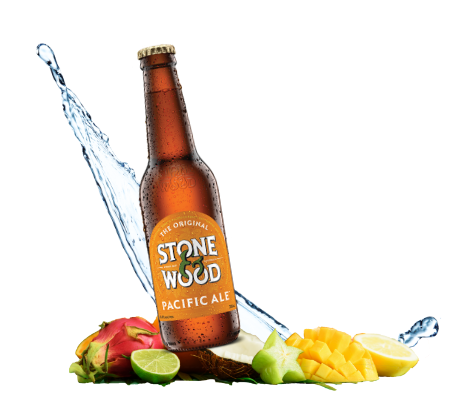
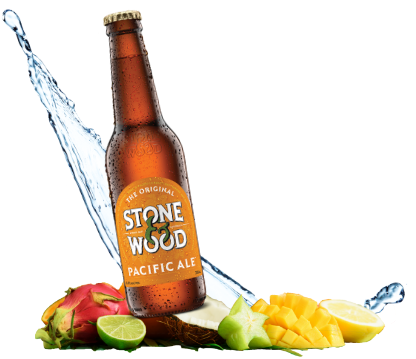
[update] SPの商品概要セクション作成

Changed region(s): [[0.0, 0.0306, 1.0, 1.0]]

diff --git a/index.html b/index.html
@@ -63,8 +63,8 @@
           <div class="limited_pack_title">
             <h2>
               <picture>
-                <source srcset="./assets/img/limited_pack_title.png" media="(min-width: 480px)" width="576" height="138">
-                <img src="./assets/img/sp_limited_pack_title.png" width="385" height="101" alt="父の日限定パック">
+                <source srcset="./assets/img/sp_limited_pack_title.png" media="(max-width: 480px)" width="385" height="101">
+                <img src="./assets/img/limited_pack_title.png" width="576" height="138" alt="父の日限定パック">
               </picture>
             </h2>
           </div>
@@ -129,8 +129,8 @@
           <div class="limited_pack_title">
             <h2>
               <picture>
-                <source srcset="./assets/img/limited_pack_title.png" media="(min-width: 480px)" width="576" height="138">
-                <img src="./assets/img/sp_limited_pack_title.png" width="385" height="101" alt="父の日限定パック">
+                <source srcset="./assets/img/sp_limited_pack_title.png" media="(max-width: 480px)" width="385" height="101">
+                <img src="./assets/img/limited_pack_title.png" width="576" height="138" alt="父の日限定パック">
               </picture>
             </h2>
           </div>
@@ -156,6 +156,7 @@
     <div id="product_section">
       <div class="product_container">
         <div><p class="product_slogan_top"><span class="orange_text">フルーティー</span>な<span class="blue_text">波</span>とともに、最高の時間を過ごしてみませんか？</p></div>
+        <img class="sp_product_beer" src="./assets/img/sp_product_beer.png" width="446" height="427" alt="STONEWOODのボトルと水しぶき">
         <div class="product_text_wrap">
           <p class="product_pacificale_title">パシフィックエール</p>
           <p class="product_pacificale_comment">オーストラリアのバイロベンというところでしか手に入らない希少価値の高いビールです。爽やかな味わいとフルーティーな後味が特徴</p>
@@ -171,8 +172,8 @@
           </div>
           <div class="fruits_beer">
             <picture>
-              <source srcset="./assets/img/fruits_beer.png" media="(min-width: 480px)" width="1199" height="843">
-              <img src="./assets/img/sp_fruits_beer.png" width="450" height="410" alt="STONEWOODのボトルとフルーツと水しぶき">
+              <source srcset="./assets/img/sp_fruits_beer.png" media="(max-width: 480px)" width="416" height="359">
+              <img src="./assets/img/fruits_beer.png" width="1199" height="843" alt="STONEWOODのボトルとフルーツと水しぶき">
             </picture>
           </div>
         </section>

diff --git a/assets/stylesheet.css b/assets/stylesheet.css
@@ -746,6 +746,10 @@ footer {
     display: none;
   }
 
+  .sp_product_beer {
+    display: none;
+  }
+
 }
 
 @media all and (max-width: 480px) {
@@ -1055,6 +1059,31 @@ footer {
 
   .product_container {
     max-width: 400px;
+    padding: 100px 0;
+  }
+
+  .product_slogan_top {
+    font-size: 1.375rem;
+    margin: 0 5%;
+  }
+
+  .product_text_wrap {
+    width: 100%;
+  }
+
+  .product_pacificale_title {
+    font-size: 1.25rem;
+    text-align: center;
+    width: 100%;
+  }
+
+  .product_pacificale_title::after {
+    width: 100%;
+  }
+
+  .product_pacificale_comment {
+    font-size: 1.125rem;
+    margin: 30px 10% 74px 10%;
   }
 
   .product_slogan_middle img {
@@ -1062,12 +1091,30 @@ footer {
     height: 49px;
   }
 
+  .product_lager_area {
+    margin-top: 53px;
+    margin-right: 0%;
+  }
+
+  .product_lager_comment {
+    font-size: 1rem;
+  }
+
+  .product_tropical_comment {
+    font-size: 1rem;
+  }
+
   .product_beer {
     display: none;
   }
 
   .fruits_beer {
-    display: none;
+    margin-left: -5%;
+    margin-top: -75%;
+  }
+
+  .sp_product_beer {
+    display: inline-block;
   }
 
   .about_company {
